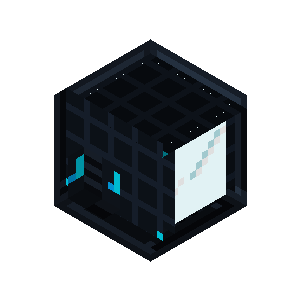
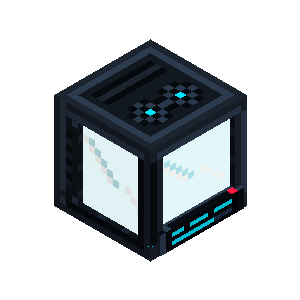
fix(art): overhaul Warden Android boss textures, add Thermal Generator block textures and fix isometric projection (v1.19.62)

Changed region(s): [[0.18, 0.15, 0.84, 0.87]]

diff --git a/tools/generate_block_gallery.py b/tools/generate_block_gallery.py
@@ -240,7 +240,7 @@ def render_block_isometric(model_json_path, out_path, size=300):
         return loaded_textures[tf]
 
     # True isometric projection angle: 30° on both left and right edges, 90° center vertical
-    yaw = math.radians(-45)
+    yaw = math.radians(-135)
     pitch = math.atan(1.0 / math.sqrt(2.0))
 
     cos_y, sin_y = math.cos(yaw), math.sin(yaw)
@@ -255,6 +255,24 @@ def render_block_isometric(model_json_path, out_path, size=300):
         y2 = y1 * cos_p - z1 * sin_p
         z2 = y1 * sin_p + z1 * cos_p
         return x2, y2, z2
+
+    def norm_to_cam(nx, ny, nz):
+        x1 = nx * cos_y + nz * sin_y
+        y1 = ny
+        z1 = -nx * sin_y + nz * cos_y
+        x2 = x1
+        y2 = y1 * cos_p - z1 * sin_p
+        z2 = y1 * sin_p + z1 * cos_p
+        return x2, y2, z2
+
+    normals = {
+        'up': (0, 1, 0),
+        'down': (0, -1, 0),
+        'north': (0, 0, -1),
+        'south': (0, 0, 1),
+        'west': (-1, 0, 0),
+        'east': (1, 0, 0),
+    }
 
     triangles = []
     all_pts_cam = []
@@ -276,6 +294,12 @@ def render_block_isometric(model_json_path, out_path, size=300):
         for fname, pts, light, def_uv in spec:
             if fname not in efaces:
                 continue
+
+            nx, ny, nz = normals[fname]
+            _, _, cz = norm_to_cam(nx, ny, nz)
+            if cz <= 1e-4:
+                continue
+
             fdata = efaces[fname]
             tex_ref = fdata.get('texture', '')
             tex_arr = get_texture_arr(tex_ref)
@@ -285,12 +309,6 @@ def render_block_isometric(model_json_path, out_path, size=300):
             uvs = [(u0, v0), (u1, v0), (u1, v1), (u0, v1)]
 
             pts_cam = [world_to_cam(*p) for p in pts]
-
-            v01 = (pts_cam[1][0] - pts_cam[0][0], pts_cam[1][1] - pts_cam[0][1])
-            v02 = (pts_cam[2][0] - pts_cam[0][0], pts_cam[2][1] - pts_cam[0][1])
-            cross_z = v01[0] * v02[1] - v01[1] * v02[0]
-            if cross_z <= 1e-4:
-                continue
 
             for pc in pts_cam:
                 all_pts_cam.append(pc)

diff --git a/src/test/java/com/fhfelipefh/sandstorm/architecture/DesertMobEcosystemArchitectureTest.java b/src/test/java/com/fhfelipefh/sandstorm/architecture/DesertMobEcosystemArchitectureTest.java
@@ -60,7 +60,7 @@ class DesertMobEcosystemArchitectureTest {
     void versionMustMatchCurrentRelease() throws IOException {
         Path gradleProps = Path.of("gradle.properties");
         String content = Files.readString(gradleProps);
-        assertTrue(content.contains("version=1.19.61"), "gradle.properties must be 1.19.61");
+        assertTrue(content.contains("version=1.19.62"), "gradle.properties must be 1.19.62");
     }
 
     @Test

diff --git a/src/test/java/com/fhfelipefh/sandstorm/architecture/WardenAndroidAndReactorArchitectureTest.java b/src/test/java/com/fhfelipefh/sandstorm/architecture/WardenAndroidAndReactorArchitectureTest.java
@@ -86,7 +86,7 @@ public class WardenAndroidAndReactorArchitectureTest {
     @Test
     public void testVersionBumped() throws IOException {
         String content = Files.readString(Path.of("gradle.properties"));
-        assertTrue(content.contains("version=1.19.61"), "Version must be bumped to 1.19.61");
+        assertTrue(content.contains("version=1.19.62"), "Version must be bumped to 1.19.62");
     }
 }
 
